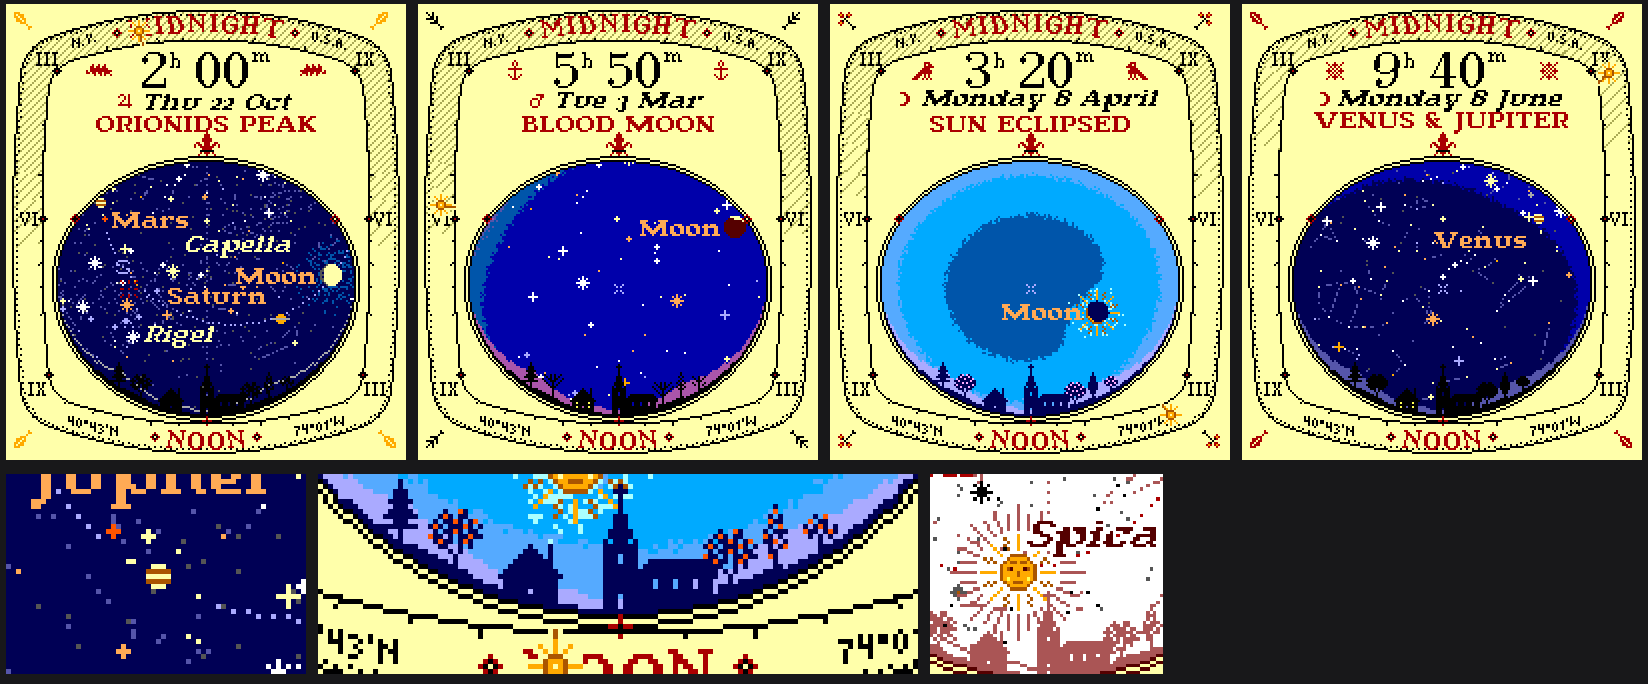
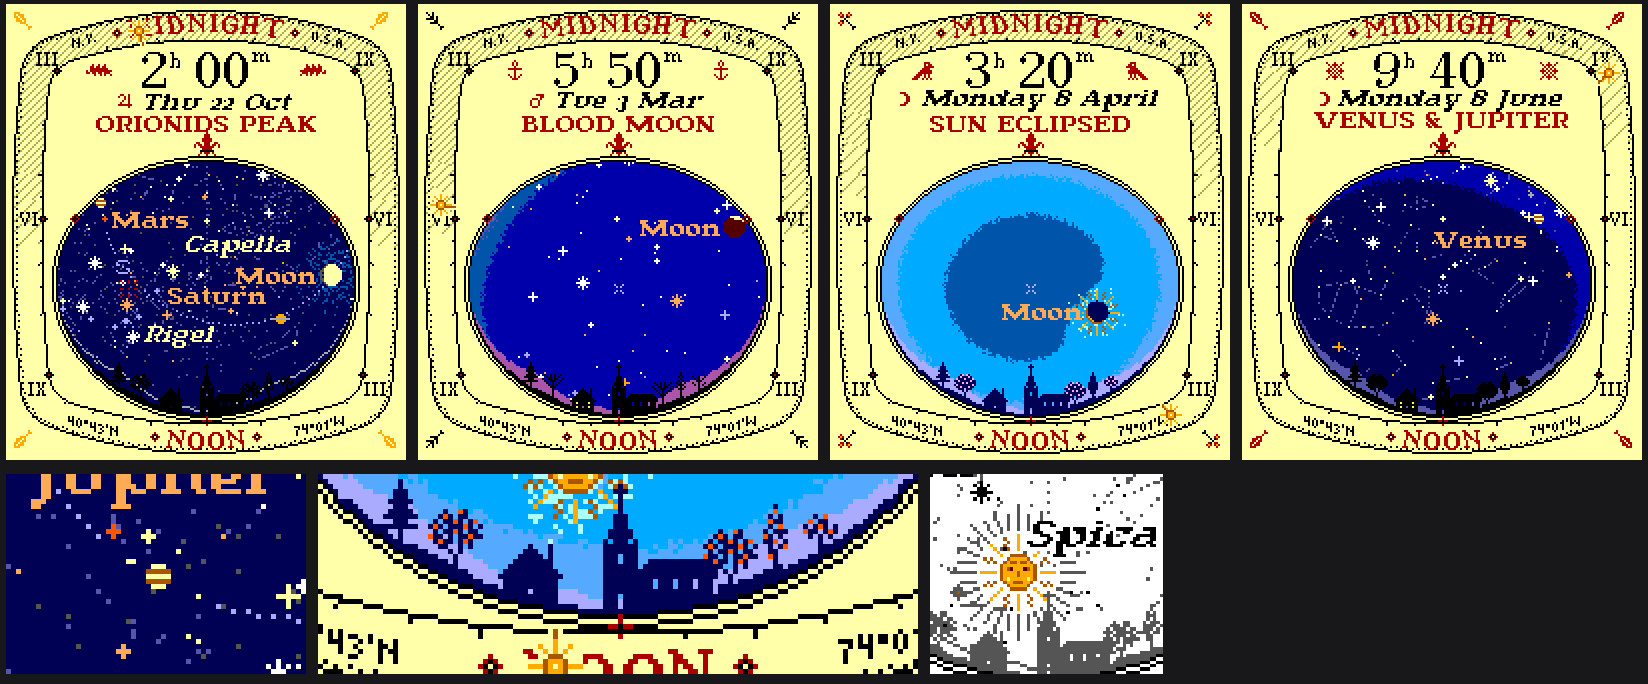
The cream cards told apart, each as its original was
Four plates shared one cream card. Each now takes its original's own:
- Flamsteed: copper engraving, black ink on white paper (more faithful
  than the brown ink on cream it had), its figures and hatching grey.
- The Hours: on its vellum the ring is painted ultramarine, its hours,
  rules and lettering in gold, as the bands of the Tres Riches Heures'
  calendar lunettes are; the night hatched a shade darker. The ring has
  its own ink (ring_ink) for this.
- Apian: old rag paper, buff and lightly foxed, a sparse speckle of buff
  in the card (4%: more read as sand).
- The Planisphere keeps the cream card of the paper planispheres.

Changed region(s): [[0.557, 0.8596, 0.7118, 1.0], [0.588, 0.7368, 0.7118, 0.8289]]

diff --git a/proto/plates.py b/proto/plates.py
@@ -6,8 +6,8 @@ the type of its time, the way Groundtrack's plates follow real charts:
                 (Old Standard, a revival of the period's scientific type)
   burritt       Burritt's Geography of the Heavens (1835): white stars and
                 figures on a blue ground (Playfair, after copperplate lettering)
-  flamsteed     Flamsteed's Atlas Coelestis (London, 1729): engraved stars and
-                figures, ink on paper (Libre Caslon: Caslon cut his type in
+  flamsteed     Flamsteed's Atlas Coelestis (London, 1729): copper engraving,
+                black ink on white paper (Libre Caslon: Caslon cut his type in
                 London in the same decade)
   observatory   red light for eyes adapted to the dark (Old Standard)
   astrolabe     a brass astrolabe, after the Sloane astrolabe (c. 1300) and Arsenius's gilt instruments: the
@@ -68,9 +68,9 @@ PLATES = {
                     star=c8(3, 3, 3), glyph="rays", line=c8(2, 2, 3), milky=c8(1, 2, 3), label=c8(3, 3, 3),
                     const=c8(3, 3, 2), planet=c8(3, 3, 1), rule=c8(3, 3, 2), font=("PlayfairDisplay[wght].ttf", 450),
                     italic=("PlayfairDisplay-Italic[wght].ttf", 450), ring="roman", figures="copperplate"),
-    "flamsteed": dict(jacket=c8(3, 3, 2), ink=c8(1, 0, 0), accent=c8(2, 0, 0), window="paper", night=c8(3, 3, 3),
-                      star=c8(0, 0, 0), glyph="rays", line=c8(2, 1, 1), milky=c8(2, 2, 2), label=c8(1, 0, 0),
-                      const=c8(2, 0, 0), planet=c8(2, 0, 0), rule=c8(1, 0, 0), font=("LibreCaslonText[wght].ttf", 450),
+    "flamsteed": dict(jacket=c8(3, 3, 3), ink=c8(0, 0, 0), accent=c8(0, 0, 0), window="paper", night=c8(3, 3, 3),
+                      star=c8(0, 0, 0), glyph="rays", line=c8(1, 1, 1), milky=c8(2, 2, 2), label=c8(0, 0, 0),
+                      const=c8(1, 1, 1), planet=c8(0, 0, 0), rule=c8(0, 0, 0), font=("LibreCaslonText[wght].ttf", 450),
                       italic=("LibreCaslonText-Italic[wght].ttf", 450), ring="roman", figures="caslon"),
     "observatory": dict(jacket=c8(0, 0, 0), ink=c8(2, 0, 0), accent=c8(3, 0, 0), window="red", night=c8(0, 0, 0),
                         star=c8(3, 0, 0), glyph="cross", line=c8(1, 0, 0), milky=c8(1, 0, 0), label=c8(2, 0, 0),
@@ -83,7 +83,7 @@ PLATES = {
     "hours": dict(jacket=c8(3, 3, 2), ink=c8(0, 0, 0), accent=c8(3, 1, 0), window="paper", night=c8(0, 0, 2),
                   star=c8(3, 2, 0), glyph="rays", line=c8(1, 1, 3), milky=c8(0, 1, 2), label=c8(3, 2, 0),
                   const=c8(3, 2, 0), planet=c8(3, 3, 1), rule=c8(3, 2, 0), font=(OLD, None), italic=(OLD_I, None),
-                  ring="minuscule", figures="caslon", corner="ivy"),
+                  ring="minuscule", figures="caslon", corner="ivy", ringfill=c8(0, 0, 2), ring_ink=c8(3, 2, 0)),
     "orloj": dict(jacket=c8(0, 0, 0), ink=c8(3, 2, 0), accent=c8(3, 1, 0), window="orloj", night=c8(0, 0, 0),
                   star=c8(3, 2, 0), glyph="rays", line=c8(2, 1, 0), milky=c8(1, 1, 0), label=c8(3, 2, 0),
                   const=c8(3, 2, 0), planet=c8(3, 3, 1), rule=c8(3, 2, 0), font=(OLD, None), italic=(OLD_I, None),
@@ -95,7 +95,8 @@ PLATES = {
     "apian": dict(jacket=c8(3, 3, 2), ink=c8(0, 0, 0), accent=c8(3, 1, 0), window="paper", night=c8(1, 2, 3),
                   star=c8(3, 3, 1), glyph="woodcut", line=c8(0, 0, 0), milky=c8(2, 3, 3), label=c8(0, 0, 0),
                   const=c8(3, 1, 0), planet=c8(3, 1, 0), rule=c8(0, 0, 0), font=(OLD, None), italic=(OLD_I, None),
-                  ring="roman", figures="caslon", woodcut=True, ringwash=c8(3, 3, 1), dragon=True, hand="thread"),
+                  ring="roman", figures="caslon", woodcut=True, ringwash=c8(3, 3, 1), dragon=True, hand="thread",
+                  foxing=(c8(3, 2, 1), 0.04)),
     "night": dict(jacket=c8(0, 0, 0), ink=c8(3, 3, 3), accent=c8(3, 2, 0), window="sky", night=c8(0, 0, 1),
                   star=c8(3, 3, 3), glyph="cross", line=c8(0, 1, 2), milky=c8(1, 1, 2), label=c8(2, 2, 2),
                   const=c8(1, 1, 2), planet=c8(3, 2, 1), rule=c8(1, 1, 1), font=(OLD, None), italic=(OLD_I, None),
@@ -276,6 +277,8 @@ def tint_of(P):
     jacket = P["jacket"]
     if (jacket == c8(2, 2, 1)).all():
         return c8(1, 1, 0)                              # on brass, the engraver's darker line
+    if (jacket == c8(3, 3, 3)).all():
+        return c8(2, 2, 2)                              # on white paper, an engraving's grey
     if jacket.sum() > 400:
         return c8(2, 2, 1)
     if P["window"] == "red":
@@ -698,6 +701,9 @@ def render(when, dial, sky, tz, plate="planisphere", round_screen=True, clock24=
     sdec, sha = pos["sun"][1] * astro.D2R, (lst - pos["sun"][0]) * astro.D2R
     gamma = np.degrees(np.arccos(np.clip(np.sin(pdec) * np.sin(sdec) + np.cos(pdec) * np.cos(sdec) * np.cos(pha - sha), -1, 1)))
     tt = bn_tile(H, W)
+    if P.get("foxing") is not None:                      # old rag paper, foxed: a sparse speckle of buff in the card
+        fox_c, fox_f = P["foxing"]
+        img[(tt[::-1, ::-1] < fox_f) & ~inside] = fox_c
     paper = P["window"] == "paper"
     closed_sky = False
     if P["window"] == "sky":
@@ -1282,18 +1288,23 @@ def render(when, dial, sky, tz, plate="planisphere", round_screen=True, clock24=
     ang = np.degrees(np.arctan2(xx + 0.5 - dial.cx, yy + 0.5 - dial.cy))
     s_alt = np.degrees(np.arcsin(np.sin(lat) * np.sin(sdec) + np.cos(lat) * np.cos(sdec) * np.cos(np.radians(ang))))
     step = np.select([s_alt > -0.833, s_alt > -6, s_alt > -12, s_alt > -18], [0] + list(HATCH[:3]), HATCH[3])
-    if P.get("ringwash") is not None:                    # a hand-coloured ring: washed, the night hatched over it in a
+    if isinstance(P.get("ringfill"), np.ndarray):        # a ring painted flat (the Hours' ultramarine, as the bands of
+        img[band] = P["ringfill"]                        # the Tres Riches Heures' calendar lunettes), the night hatched
+        hatch = band & (step > 0) & ((xx + yy) % np.maximum(step, 1) == 0)   # a shade darker
+        img[hatch] = np.maximum(P["ringfill"] - 85, 0)
+    elif P.get("ringwash") is not None:                  # a hand-coloured ring: washed, the night hatched over it in a
         img[band] = P["ringwash"]                        # quiet tone, so the lettering stays clear
         hatch = band & (step > 0) & ((xx + yy) % np.maximum(step, 1) == 0)
         img[hatch] = c8(2, 2, 1)
-    elif P.get("ringfill") == "zones":                   # the clock's zones round the Sun's path instead, the day
+    elif isinstance(P.get("ringfill"), str) and P["ringfill"] == "zones":   # the clock's zones round the Sun's path, the day
         img[band & (s_alt > -0.833)] = c8(0, 1, 2)       # a deep blue, as on the clock, so the gold reads on it
         img[band & (s_alt <= -0.833) & (s_alt > -18)] = c8(2, 1, 0)
     else:
         hatch = band & (step > 0) & ((xx + yy) % np.maximum(step, 1) == 0)
         img[hatch] = tint_of(P)
-    img[rule_in] = P["ink"]
-    img[rule_out] = P["ink"]
+    ring_ink = P.get("ring_ink", P["ink"])               # the ring's lettering and rules (gold on the Hours' blue)
+    img[rule_in] = ring_ink
+    img[rule_out] = ring_ink
     # a beaded rule just inside the outer one, as on a clock's chapter ring; on an astrolabe, beads at the unequal
     # hours instead: the day from sunrise to sunset in twelve and the night in twelve, crowding and spreading
     # with the seasons (equal at the equinoxes), as an astrolabe's plate engraves them
@@ -1311,12 +1322,12 @@ def render(when, dial, sky, tz, plate="planisphere", round_screen=True, clock24=
                 for ox_ in (0, 1):
                     X_, Y_ = int(math.floor(bx_ - 0.5)) + ox_, int(math.floor(by_ - 0.5)) + oy_
                     if 0 <= X_ < W and 0 <= Y_ < H:
-                        img[Y_, X_] = P["ink"]
+                        img[Y_, X_] = ring_ink
                         bead_px.append((Y_, X_))
     else:
         bead_px = bead_pixels(dial, rp["bead"])
         for by_, bx_ in bead_px:
-            img[by_, bx_] = P["ink"]
+            img[by_, bx_] = ring_ink
     words = {0: "MIDNIGHT", 12: "NOON"}
     # the hours every three: on the 12-hour clock twelve and twelve (III, VI, IX each morning and evening, or
     # figures on the plain plates); on the 24-hour clock, figures running on through the day
@@ -1343,13 +1354,13 @@ def render(when, dial, sky, tz, plate="planisphere", round_screen=True, clock24=
     for x, y in ticks:
         for xx_ in (x, W - 1 - x):                      # mirrored across the meridian: exactly symmetric
             if 0 <= xx_ < W and 0 <= y < H and not inside[y, xx_] and not inner[y, xx_]:
-                img[y, xx_] = P["ink"]
+                img[y, xx_] = ring_ink
     # studs on the inner rule at the numbered hours, half in the band and half out
     studs = np.zeros((H, W), bool)
     for hr in numerals:
         ex_, ey_ = edge_point(dial, (hr - 12) * 15)
         sx_, sy_ = int(math.floor(ex_)), int(math.floor(ey_))
-        sprites.paint(img, sprites.STUD, sx_, sy_, {1: P["ink"], 2: P["accent"]})
+        sprites.paint(img, sprites.STUD, sx_, sy_, {1: ring_ink, 2: P["accent"]})
         for j, i in zip(*np.nonzero(sprites.STUD)):
             if 0 <= sy_ - 2 + j < H and 0 <= sx_ - 2 + i < W:
                 studs[sy_ - 2 + j, sx_ - 2 + i] = True
@@ -1381,7 +1392,7 @@ def render(when, dial, sky, tz, plate="planisphere", round_screen=True, clock24=
             if best is None or key > best[0]:
                 best = (key, lx, ty)
         _, lx, ty = best
-        img[ty: ty + m.shape[0], lx: lx + m.shape[1]][m] = P["ink"]
+        img[ty: ty + m.shape[0], lx: lx + m.shape[1]][m] = ring_ink
         numeral_px[ty: ty + m.shape[0], lx: lx + m.shape[1]] |= m
     # MIDNIGHT and NOON, lettered along the ring (hand-finished art; drafts where none is finished yet),
     # a lozenge either side
@@ -1400,7 +1411,7 @@ def render(when, dial, sky, tz, plate="planisphere", round_screen=True, clock24=
         half_w = (sum(len(sprites.CAPS9[ch][0]) for ch in word) + 2 * (len(word) - 1)) / 2
         for sgn in (-1, 1):
             lx, ly, _ = curve(sgn * (half_w + 6))
-            sprites.paint(img, sprites.LOZENGE, lx - 0.5, ly - 0.5, {2: P["accent"], 1: P["ink"]})
+            sprites.paint(img, sprites.LOZENGE, lx - 0.5, ly - 0.5, {2: P["accent"], 1: ring_ink})
     # the place, as a map's border gives it: its city and country either side of MIDNIGHT, its latitude and
     # longitude either side of NOON, in small capitals along the ring, each centred in the room the band has
     # there; a city too long for its room is shortened, its leading words to their initials, then all of it
@@ -1443,7 +1454,7 @@ def render(when, dial, sky, tz, plate="planisphere", round_screen=True, clock24=
             x0_, y0_ = int(round(gx)), int(round(y_ - 2.5))
             for j, i in zip(*np.nonzero(g)):
                 if 0 <= y0_ + j < H and 0 <= x0_ + i < W:
-                    img[y0_ + j, x0_ + i] = P["ink"]
+                    img[y0_ + j, x0_ + i] = ring_ink
             gx += g.shape[1] + track
     # the Time 2's corners, outside the ring: a sprig turning into each, where the corner has most room, in the
     # season's dress (blossom, leaf, gold leaf, bare twig)

diff --git a/README.md b/README.md
@@ -16,14 +16,14 @@ Like Groundtrack's plates, each plate follows a real tradition of sky charts, se
 | --- | --- | --- |
 | **Planisphere** | The paper planispheres of the early 1900s: a cream card printed in black and red, a deep blue star disc behind its window, MIDNIGHT and NOON lettered round the ring | Old Standard, a revival of the period's scientific type |
 | **Burritt** | Elijah Burritt's *Geography of the Heavens* (1835): white stars and figures on a blue ground | Playfair Display, after copperplate lettering |
-| **Flamsteed** | Flamsteed's *Atlas Coelestis* (London, 1729): engraved rayed stars and figures, ink on paper, the Moon hatched | Libre Caslon: Caslon cut his type in London in the same decade |
+| **Flamsteed** | Flamsteed's *Atlas Coelestis* (London, 1729): copper engraving, black ink on white paper, rayed stars, the figures and the hatching in grey, the Moon hatched | Libre Caslon: Caslon cut his type in London in the same decade |
 | **Observatory** | Red light, for eyes adapted to the dark | Old Standard |
 | **Night** | The first take: a black card, white type | Old Standard |
 | **Astrolabe** | A brass astrolabe, after the Sloane astrolabe (c. 1300) and Arsenius's gilt instruments: the rete's flame pointers marking the bright stars over the plate's engraved circles (the equator, the tropics, the almucantars), the ecliptic a solid ring, the throne and ring at the north, Gothic figures on the ring, beads at the unequal hours | Libre Caslon's old-style figures |
-| **Hours** | A Book of Hours, after the *Très Riches Heures* (c. 1412–1416): gold stars in an ultramarine sky on vellum, vermilion and gold, the hours in the small roman of the manuscripts (iij, vj, ix), ivy in the corners | Libre Caslon's old-style figures |
+| **Hours** | A Book of Hours, after the *Très Riches Heures* (c. 1412–1416): gold stars in an ultramarine sky on vellum, the ring painted ultramarine with its hours and lettering in gold as the calendar lunettes' bands are, vermilion, the hours in the small roman of the manuscripts (iij, vj, ix), ivy in the corners | Libre Caslon's old-style figures |
 | **Orloj** | Prague's astronomical clock (1410): gold on black, the sky and the ring in the clock's three flat zones, blue for the day, red-brown for the twilight, black for the night | Old Standard |
 | **Cyanotype** | A cyanotype, Herschel's blueprint (1842) as Anna Atkins used it for her *British Algae* (1843): white on cobalt, a seaweed frond in each corner | Old Standard |
-| **Apian** | Apian's *Astronomicum Caesareum* (Ingolstadt, 1540), a woodcut coloured by hand: heavy black line, a yellow zodiac band across a light blue sky, the stars cut in outline and coloured, a yellow-washed ring, the dragon at the Moon's nodes in eclipse seasons, a silk thread and a seed pearl for the Sun's index | Libre Caslon's old-style figures |
+| **Apian** | Apian's *Astronomicum Caesareum* (Ingolstadt, 1540), a woodcut coloured by hand on old rag paper, buff and lightly foxed: heavy black line, a yellow zodiac band across a light blue sky, the stars cut in outline and coloured, a yellow-washed ring, the dragon at the Moon's nodes in eclipse seasons, a silk thread and a seed pearl for the Sun's index | Libre Caslon's old-style figures |
 
 The planisphere, observatory and night plates show the live sky in their window: night blue, the blue hour with its warm glow, day blue with the Sun in it. Burritt, Flamsteed, the Hours, the Cyanotype and Apian's woodcut are printed or painted, so their windows keep the stars by day as a chart would, with the Sun drawn among them. The Astrolabe keeps its rete up by day as the instrument does. The Orloj's window takes the clock's zones: blue while the Sun is up, red-brown through the twilight, black at night.
 
@@ -32,6 +32,7 @@ Each new plate brings its own pieces:
 - **The Hours** has its hours in small roman, the last i written j, and gold ivy in the corners.
 - **The Orloj** fills its ring with the clock's zones in place of the engraver's hatching, so the gilded Sun travels through blue, brown and black.
 - **The Cyanotype** has white seaweed fronds in its corners.
+- **The cards differ as their originals do.** The Planisphere is the cream card of the paper planispheres. Flamsteed's is the white paper of a copper engraving, in black ink only. The Hours' vellum carries an ultramarine ring lettered in gold. Apian's is old rag paper, lightly foxed with buff specks.
 - **Apian's woodcut** is coloured as his volvelles were: the zodiac a band six degrees either side of the ecliptic, washed yellow and ruled black, the ecliptic red through it, and the Milky Way a flat wash with no grain. The bright stars are cut in outline and coloured; the faint ones are black dots. The ring is washed yellow, with the night hatched over it in a quiet tone so the lettering stays clear. In an eclipse season, when the Sun is within eighteen degrees of a node of the Moon's path, the dragon's head ☊ and tail ☋ stand at the nodes, where the eclipses happen, as on Apian's dragon volvelle; the nodes come from Meeus. The Sun's hour is marked not by the gilded Sun but by a silk thread across the ring with a seed pearl on it, as Apian's volvelles are read.
 
 ![The paper planisphere at 9:30 pm](docs/plate-planisphere.png)
